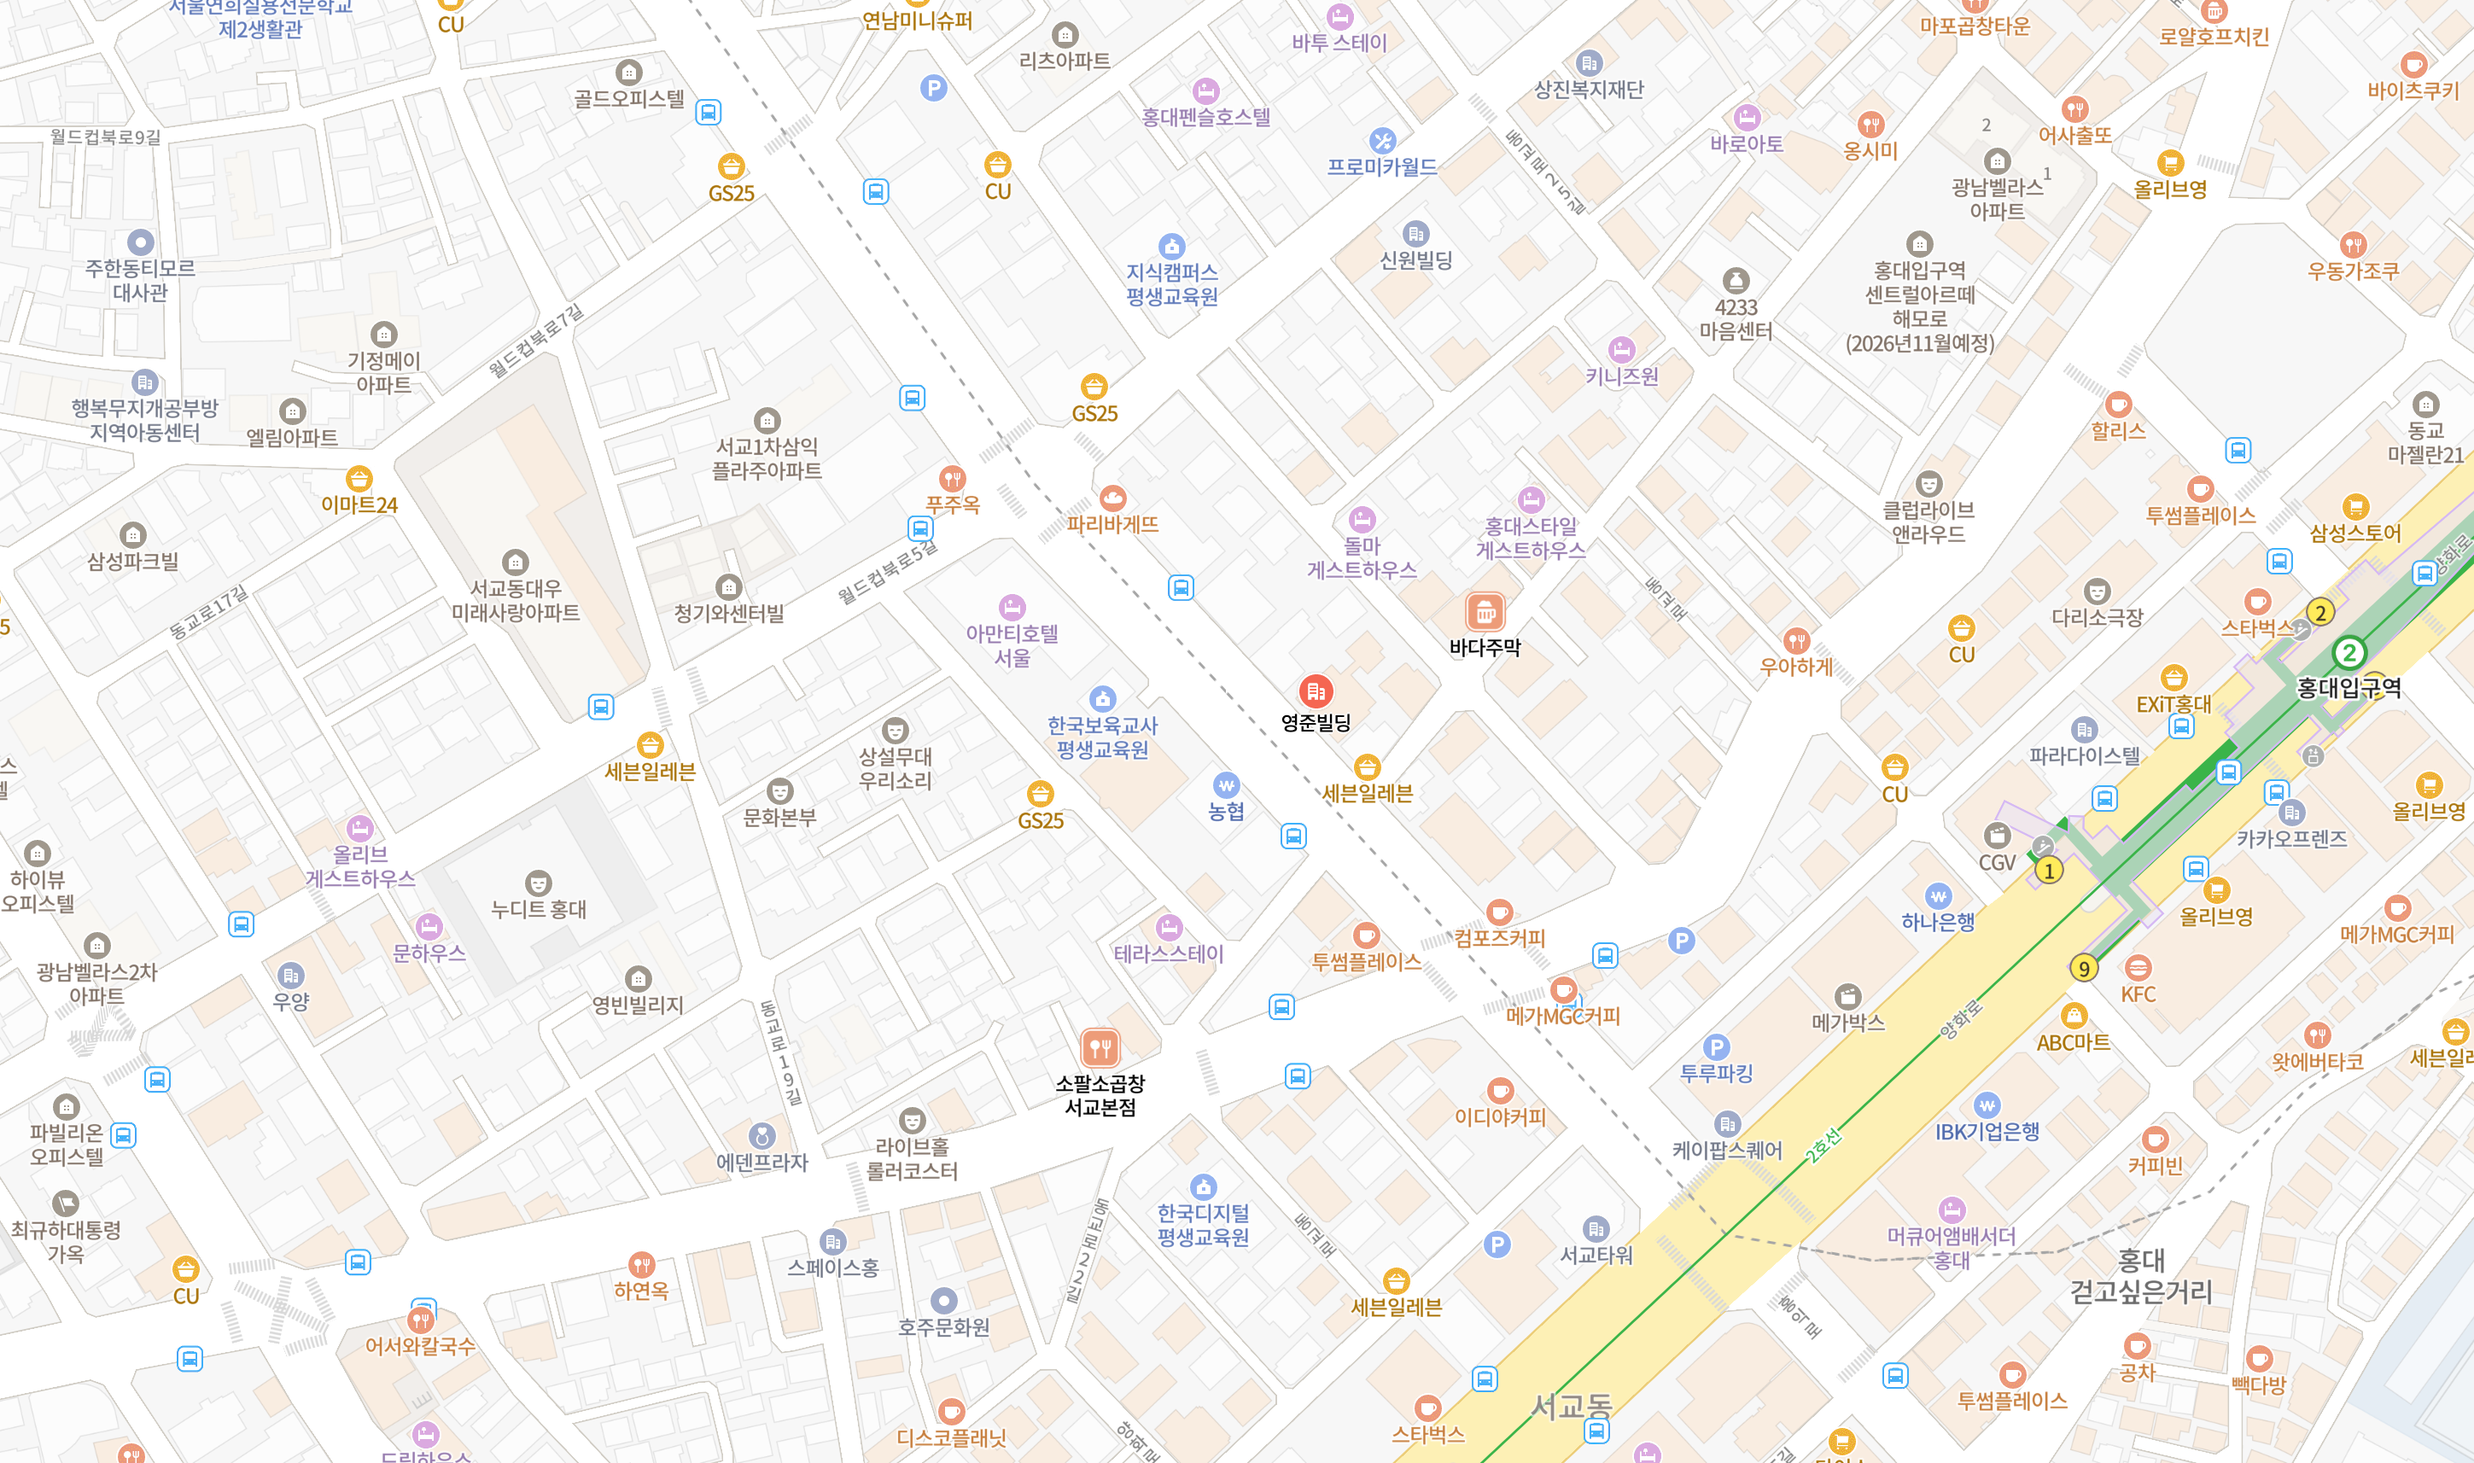
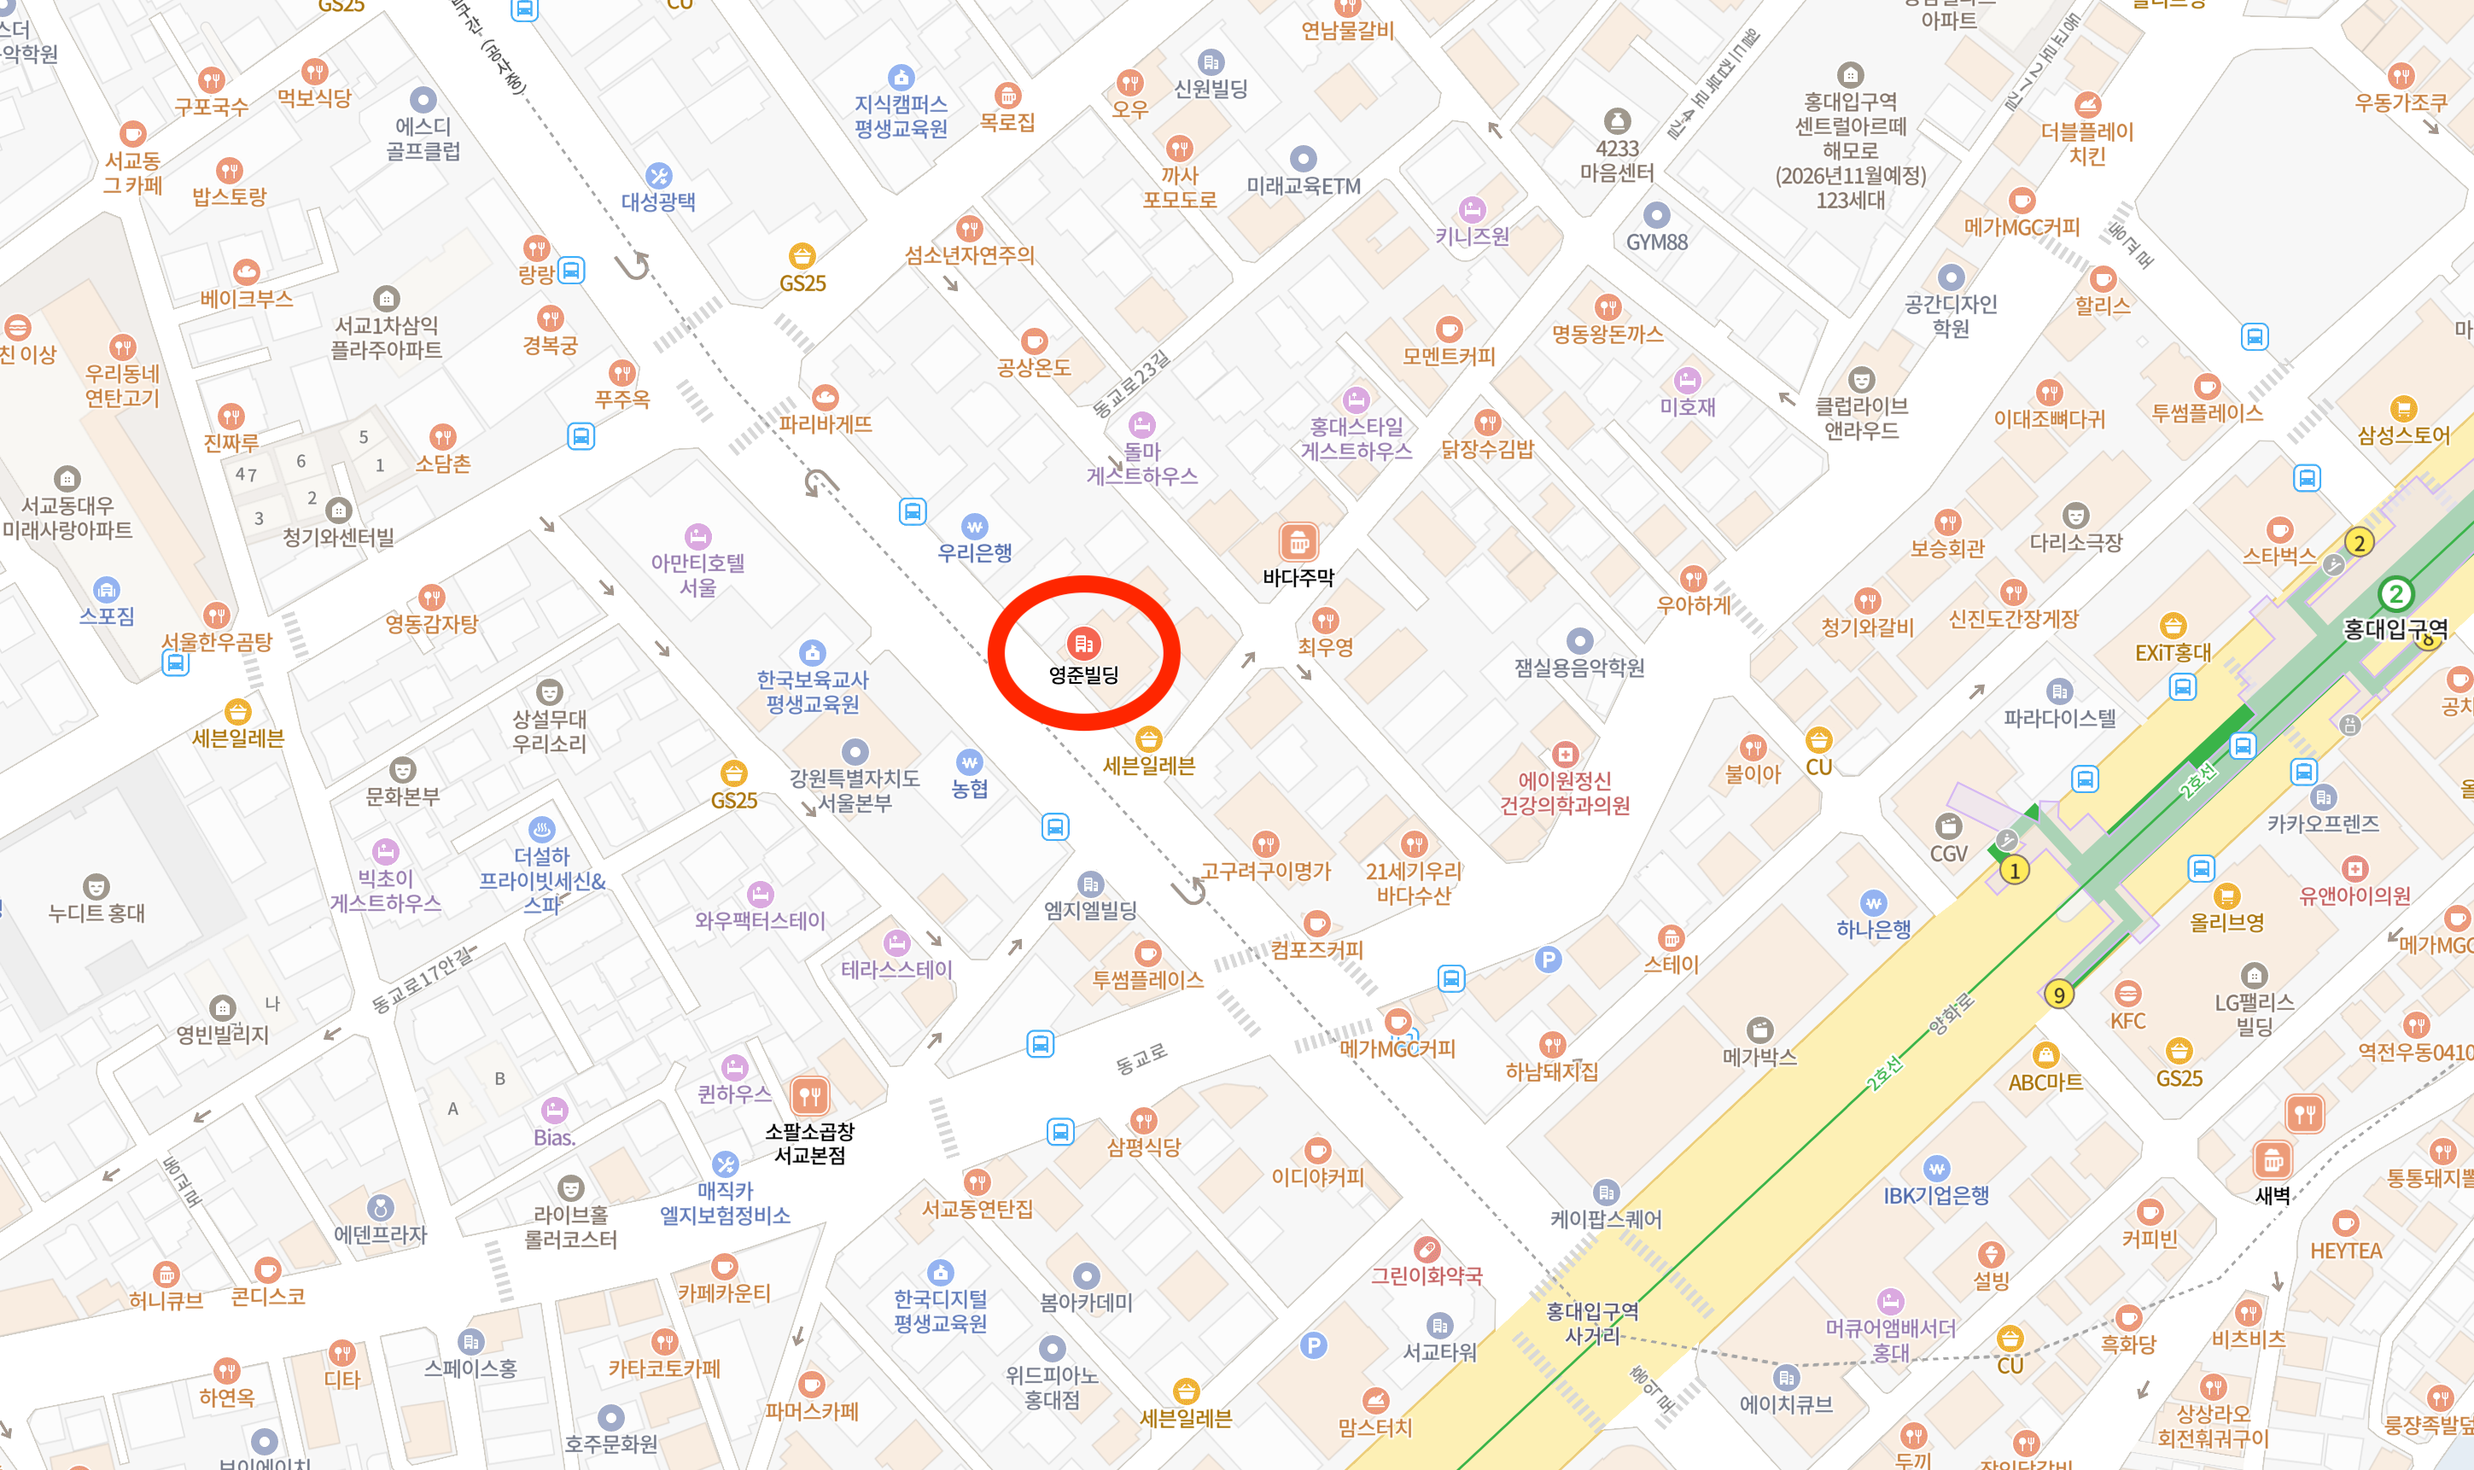
Changed the time setting and fixed the map

Changed region(s): [[0.0, 0.0, 1.0, 1.0], [0.0, 0.9586, 0.0621, 1.0], [0.0, 0.0, 0.0311, 0.0618]]

diff --git a/src/pages/api/booking.ts b/src/pages/api/booking.ts
@@ -33,7 +33,12 @@ const json = (body: unknown, status = 200) =>
 
 const str = (v: unknown) => (typeof v === 'string' ? v.trim() : '');
 const arr = (v: unknown) => (Array.isArray(v) ? v.map(String) : []);
-const hourOf = (v: string) => Number(v.split(':')[0]);
+/** Minutes from midnight — slots are half-hourly, so hour arithmetic is wrong. */
+const minOf = (v: string) => {
+  const [h, m] = v.split(':').map(Number);
+  return h * 60 + (m || 0);
+};
+const fmtHours = (h: number) => (Number.isInteger(h) ? String(h) : h.toFixed(1));
 
 /** Server-side validation. The client checks the same things; this is the one that counts. */
 function validate(d: Payload): string | null {
@@ -55,8 +60,13 @@ function validate(d: Payload): string | null {
   if (!/^0\d{1,2}[-\s]?\d{3,4}[-\s]?\d{4}$/.test(str(d.phone)))
     return '전화번호 형식을 확인해 주세요.';
 
-  const hours = hourOf(str(d.end)) - hourOf(str(d.start));
+  const hours = (minOf(str(d.end)) - minOf(str(d.start))) / 60;
   if (hours < MIN_HOURS) return `대관은 최소 ${MIN_HOURS}시간부터 신청할 수 있습니다.`;
+
+  // Workers run on UTC; the venue books in Korean local time, so compare the
+  // requested date against today in Asia/Seoul rather than the server's day.
+  const todaySeoul = new Date(Date.now() + 9 * 60 * 60 * 1000).toISOString().slice(0, 10);
+  if (str(d.date) < todaySeoul) return '지난 날짜는 신청하실 수 없습니다.';
 
   const guests = Number(d.guests);
   if (!Number.isFinite(guests) || guests < 1 || guests > MAX_GUESTS) {
@@ -94,7 +104,7 @@ function buildEmailBody(d: Payload, hours: number, ip: string) {
     ['전화번호', str(d.phone)],
     ['이메일', str(d.email)],
     ['대관 날짜', str(d.date)],
-    ['대관 시간', `${str(d.start)} ~ ${str(d.end)} (${hours}시간)`],
+    ['대관 시간', `${str(d.start)} ~ ${str(d.end)} (${fmtHours(hours)}시간)`],
     ['총 사용 인원', `${str(d.guests)}명`],
     ['대관 설명', str(d.purpose)],
     ['유입 경로', arr(d.referral).join(' · ') || '—'],
@@ -145,7 +155,7 @@ export const POST: APIRoute = async ({ request, clientAddress }) => {
   const problem = validate(payload);
   if (problem) return json({ ok: false, error: problem }, 400);
 
-  const hours = hourOf(str(payload.end)) - hourOf(str(payload.start));
+  const hours = (minOf(str(payload.end)) - minOf(str(payload.start))) / 60;
   const { text, html } = buildEmailBody(payload, hours, ip);
 
   /* ---- 1. Email first: this is the record that must not be lost. ---- */

diff --git a/CLAUDE.md b/CLAUDE.md
@@ -494,6 +494,16 @@ Open product questions — **don't invent answers, ask**:
 
 Things that have actually bitten, in this order of likelihood:
 
+- **`npm run build` while `npm run dev` is running corrupts the dev server.** Both share
+  `node_modules/.vite`, and the build rewrites the optimised-dependency directory the
+  running server still holds handles to. The dev server then 500s with *The file does not
+  exist at .../deps_ssr/astro_assets_runtime.js … Try adding it to `optimizeDeps.exclude`* —
+  which is a red herring; nothing is wrong with the config. Recover with:
+  ```bash
+  npx astro dev stop && rm -rf node_modules/.vite .astro && npm run dev
+  ```
+  Avoid it by stopping the dev server before building, or by only building when done.
+
 - **Astro's scoped CSS never reaches an element created in JavaScript.** Scoping appends
   `[data-astro-cid-…]` to every selector, and a `document.createElement` node carries no
   such attribute — so `.field__error` styled in the page's `<style>` block rendered at the
